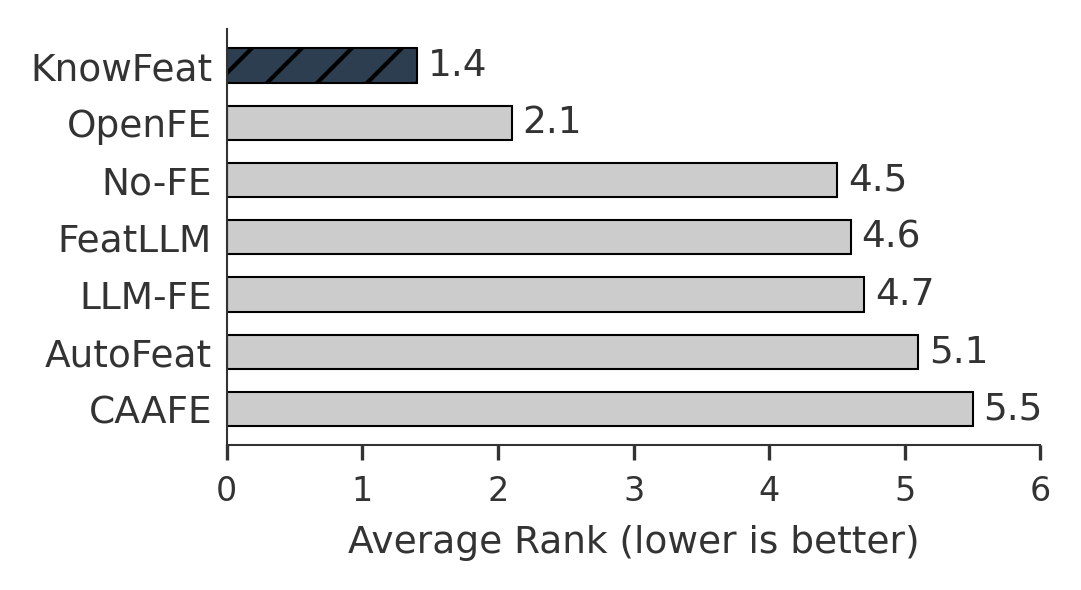
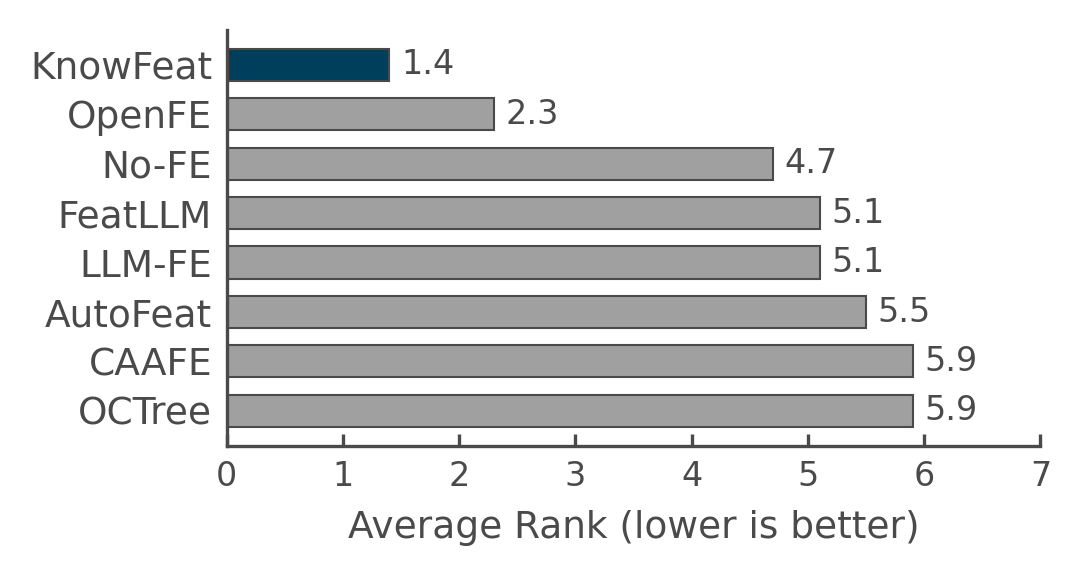
remove Index Terms, replace scatter with bar chart, add OCTree to fig
- Remove IEEEkeywords (Index Terms) from abstract
- Replace scatter plot (feat_vs_rank) with bar chart (avg_rank) in RQ1
- Regenerate avg_rank bar chart with 8 methods including OCTree
- Remove scatter plot figure from RQ4

diff --git a/paper/experiments.tex b/paper/experiments.tex
@@ -88,7 +88,16 @@ adult              & .929{\scriptsize$\pm$.004} & \underline{.930{\scriptsize$\p
 \end{tabular}
 \end{table*}
 
-KnowFeat achieves the best average rank (1.4), substantially outperforming the second-best OpenFE (2.3). OpenFE achieves the best results on 3 datasets (diabetes, heart, bank\_marketing) through exhaustive operator-operand search. However, OpenFE generates 34--50 features per dataset, while KnowFeat achieves competitive or superior performance with 12--46 features (see Section~\ref{subsec:rq4}).
+Figure~\ref{fig:avg_rank} visualizes the average ranks. KnowFeat achieves the best average rank (1.4), substantially outperforming the second-best OpenFE (2.3).
+
+\begin{figure}[t]
+    \centering
+    \includegraphics[width=\columnwidth]{figures/avg_rank.png}
+    \caption{Average rank across 7 public datasets (lower is better). KnowFeat achieves the best average rank (1.4) among 8 methods.}
+    \label{fig:avg_rank}
+\end{figure}
+
+OpenFE achieves the best results on 3 datasets (diabetes, heart, bank\_marketing) through exhaustive operator-operand search. However, OpenFE generates 34--50 features per dataset, while KnowFeat achieves competitive or superior performance with 12--46 features (see Section~\ref{subsec:rq4}).
 
 Among LLM-based methods, LLM-FE generally outperforms CAAFE and FeatLLM but remains below both OpenFE and KnowFeat. OCTree~\cite{nam2024octree}, which augments LLM generation with decision tree reasoning, performs comparably to No-FE on most datasets and achieves a near-tied third place on adult, but its average rank (5.9) is among the lowest. Notably, both LLM-FE and OCTree underperform the No-FE baseline on multiple datasets, suggesting that LLM-based generation without external domain knowledge and multi-stage verification is insufficient.
 
@@ -157,11 +166,4 @@ On diabetes, schema-only generates \emph{zero} features passing L3, while full k
 
 The last row of Table~\ref{tab:main_results} reports the average number of features per method. FeatLLM generates the most features (avg.\ 151) yet achieves the worst average rank. OCTree and LLM-FE generate few features (avg.\ 12.7 and 17.1, respectively) but cannot consistently outperform No-FE. On SimECNY (Table~\ref{tab:simecny}), KnowFeat's 18 verified features improve F1 by +1.5pp, while FeatLLM's 1,031 unverified features \emph{decrease} F1 by $-$0.4pp.
 
-Figure~\ref{fig:feat_vs_rank} visualizes this trade-off. KnowFeat strikes an effective balance: it generates a moderate number of features (12--46 on public datasets, +18 on SimECNY) that have all passed the L1$\to$L2$\to$L3 pipeline. On SimECNY, the contrast is particularly stark: KnowFeat's 18 verified features improve F1 by +1.5pp, while FeatLLM's 1,031 unverified features \emph{decrease} F1 by $-$0.4pp. Beyond quantity, every KnowFeat-generated feature includes a provenance card recording the knowledge assets, reasoning chain, and computation steps, providing full auditability (see Section~\ref{sec:case_study}).
-
-\begin{figure}[t]
-    \centering
-    \includegraphics[width=\columnwidth]{figures/feat_vs_rank.png}
-    \caption{Trade-off between feature quantity and average rank across 8 methods. KnowFeat achieves the best rank (1.4) with a moderate number of verified features.}
-    \label{fig:feat_vs_rank}
-\end{figure}
+KnowFeat strikes an effective balance: it generates a moderate number of features (12--46 on public datasets, +18 on SimECNY) that have all passed the L1$\to$L2$\to$L3 pipeline. On SimECNY, the contrast is particularly stark: KnowFeat's 18 verified features improve F1 by +1.5pp, while FeatLLM's 1,031 unverified features \emph{decrease} F1 by $-$0.4pp. Beyond quantity, every KnowFeat-generated feature includes a provenance card recording the knowledge assets, reasoning chain, and computation steps, providing full auditability (see Section~\ref{sec:case_study}).

diff --git a/scripts/gen_fig2_avg_rank.py b/scripts/gen_fig2_avg_rank.py
@@ -18,20 +18,21 @@ async def main():
     COMPACT layout - minimize vertical space. Use standard fonts: Times New Roman or Helvetica, 8-9pt.
     White background, no grid lines, clean academic style.
 
-    Data (sorted by rank, best at top):
+    Data (sorted by rank, best at top, 8 methods):
     | Method    | Avg. Rank |
     |-----------|-----------|
     | KnowFeat  | 1.4       |
-    | OpenFE    | 2.1       |
-    | No-FE     | 4.5       |
-    | FeatLLM   | 4.6       |
-    | LLM-FE    | 4.7       |
-    | AutoFeat  | 5.1       |
-    | CAAFE     | 5.5       |
+    | OpenFE    | 2.3       |
+    | No-FE     | 4.7       |
+    | FeatLLM   | 5.1       |
+    | LLM-FE    | 5.1       |
+    | AutoFeat  | 5.5       |
+    | CAAFE     | 5.9       |
+    | OCTree    | 5.9       |
 
     - KnowFeat bar should be a distinct darker blue color, all others in light gray
     - Show the numeric rank value at the end of each bar
-    - X-axis: "Average Rank (lower is better)" from 0 to 6
+    - X-axis: "Average Rank (lower is better)" from 0 to 7
     - Y-axis: method names
     - Thin bars with small spacing to keep the figure compact
     - No title (caption will be in LaTeX)
@@ -39,11 +40,11 @@ async def main():
     """
 
     raw_data = {
-        "methods": ["KnowFeat", "OpenFE", "No-FE", "FeatLLM", "LLM-FE", "AutoFeat", "CAAFE"],
-        "avg_rank": [1.4, 2.1, 4.5, 4.6, 4.7, 5.1, 5.5],
+        "methods": ["KnowFeat", "OpenFE", "No-FE", "FeatLLM", "LLM-FE", "AutoFeat", "CAAFE", "OCTree"],
+        "avg_rank": [1.4, 2.3, 4.7, 5.1, 5.1, 5.5, 5.9, 5.9],
     }
 
-    caption = "Average rank across 7 public datasets (lower is better). KnowFeat achieves the best average rank (1.4)."
+    caption = "Average rank across 7 public datasets (lower is better). KnowFeat achieves the best average rank (1.4) among 8 methods."
 
     settings = Settings(
         vlm_provider="gemini",

diff --git a/paper/abstract.tex b/paper/abstract.tex
@@ -2,7 +2,3 @@
 \begin{abstract}
 Automated feature engineering with large language models (LLMs) can generate semantically meaningful features for tabular data, yet existing methods lack structured domain knowledge, rigorous verification, and auditable provenance. We propose \textbf{KnowFeat}, the first knowledge-guided feature engineering framework that addresses all three gaps. KnowFeat organizes domain knowledge into a five-type hierarchy---from schema metadata to regulatory indicators, detection rules, expert opinions, and court document evidence---and injects it as structured context into an LLM agent. A three-stage verification pipeline filters candidates through code execution, statistical quality checks, and model effectiveness evaluation. Every accepted feature carries a provenance card tracing its design to specific knowledge assets, enabling the auditability required in regulated domains. On seven public benchmarks, KnowFeat achieves the best average rank (1.4) among seven methods. On a real-world anti-money laundering dataset with 200K transactions, 18 knowledge-guided features improve Recall by +2.1pp and F1 by +1.5pp over a 93-feature baseline, outperforming methods that generate up to 1,031 unverified features. Ablation studies confirm that hierarchical domain knowledge is essential for consistent feature generation.
 \end{abstract}
-
-\begin{IEEEkeywords}
-Feature Engineering, Large Language Models, Domain Knowledge, Anti-Money Laundering, Tabular Data
-\end{IEEEkeywords}
